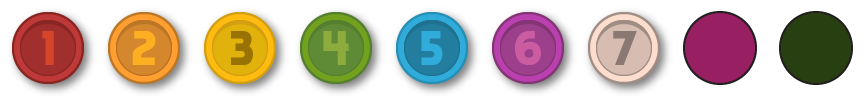
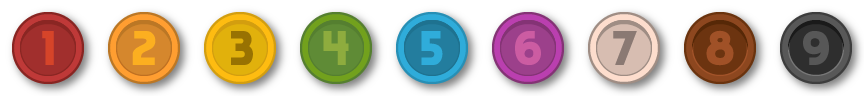
modified:   check_matching.py 	modified:   consts.py 	modified:   game_assets.py 	modified:   gem_select.py 	modified:   gfx/gems.png 	modified:   main.py

Changed region(s): [[0.7812, 0.0938, 1.0, 0.9688]]

diff --git a/game_assets.py b/game_assets.py
@@ -31,6 +31,7 @@ class Gem(Sprite):
         self._direction: vec = vec()
         self._velocity: vec = self._direction * self._speed
         self._end_moving: bool = True
+        self._ready = True
         self._dist: int = 0
         self._is_falling: bool = False
         self._state: str = 'idle'
@@ -62,6 +63,10 @@ class Gem(Sprite):
     @property
     def end_moving(self) -> bool:
         return self._end_moving
+    
+    @property
+    def ready(self) -> bool:
+        return self._ready
 
     def change_pos(self):
         self._direction = vec.normalize(self._new_bpos.pos - self._bpos.pos)
@@ -89,6 +94,7 @@ class Gem(Sprite):
         self._new_bpos.pos = self._bpos.pos + vec(0, dist)
         self._board_manager.match_gems.add_to_matching(self)
         self._is_falling = True
+        self._ready = False
         self.change_pos()
         self._state = 'fall'
 
@@ -120,9 +126,9 @@ class Gem(Sprite):
         self._bpos.pos = self._new_bpos.pos.copy()
         self._end_moving = True
         self._board_manager.board.gems[int(self._bpos.pos.x)][int(self._bpos.pos.y)] = self
+        self._ready  = True
         self._is_falling = False
         self.reset_state()
-
 
 class Create_Board():
     def __init__(self, board_manager,
@@ -180,6 +186,8 @@ class Board_Manager():
         self._match_gems: Match = Match(self)
         self._overs: list[Gem] = list()
         self._possibles: bool = False
+        self._gems_ready = False
+        self.debug_rect: list[Rect] = []
 
     @property
     def board(self) -> Create_Board:
@@ -204,11 +212,16 @@ class Board_Manager():
     @property
     def match_gems(self) -> Match:
         return self._match_gems
+    
+    @property
+    def gems_are_moving(self) -> bool:
+        return self._gems_are_moving
 
     def _detect_pointer_with_gem_collision(self, events, game_status):
-        if not self._check_moving_of_gems(self._match_gems.set_matching): return
 
-        gem = None
+        if not self._gems_ready: return
+
+        gem: Gem = None
         for _gem in self._gems_group:
             if _gem.rect.collidepoint(*(pygame.mouse.get_pos() - BOARD.OFFSET)):
                 gem = _gem
@@ -240,13 +253,25 @@ class Board_Manager():
                         self._swapdir_group.empty()
 
     def _check_moving_of_gems(self, gems: set[Gem]) -> bool:
-        if len(gems) == 0: return True
+        if len(gems) == 0: return False
         for gem in gems:
             if not gem.end_moving:
-                return False
-        return True
+                return True
+        return False
+    
+    def check_gems_ready(self) -> bool:
+        ret = True
+        for gem in self._gems_group:
+            if gem.ready == False:
+                self.debug_rect.append(gem.rect)
+                ret = False
+
+        return ret
     
     def update(self, events, dt, game_status):
+
+        self._gems_ready = self.check_gems_ready()
+
         self._detect_pointer_with_gem_collision(events, game_status)
 
         self._select_gem.select_group.update(dt)
@@ -261,7 +286,7 @@ class Board_Manager():
             self._swap_gems.swap(None)
 
         if self._swap_gems.swaping:
-            if self._check_moving_of_gems([self._swap_gems.gem1, self._swap_gems.gem2]):
+            if not self._check_moving_of_gems([self._swap_gems.gem1, self._swap_gems.gem2]):
                 self._match_gems.add_to_matching(self._swap_gems.gem1)
                 self._match_gems.add_to_matching(self._swap_gems.gem2)
                 if self._match_gems.match():
@@ -271,7 +296,7 @@ class Board_Manager():
                 self._swap_gems.clear_swap()
                 self._select_gem.clear()
 
-        if self._check_moving_of_gems(self._match_gems.set_matching):
+        if self.check_gems_ready():
             if len(self._match_gems.set_matching) > 0:
                 self._match_gems.match()
 

diff --git a/main.py b/main.py
@@ -57,13 +57,14 @@ class GameManager():
                         sys.exit()
                     if event.key == pygame.K_ESCAPE:
                         run = False
-                if self.game_status != 'game_over':
-                    if event.type == self.check_board and self.board_manager._check_moving_of_gems(self.board_manager.match_gems.set_matching):
-                        if not Check_Matching.check(self.board_manager.board.gems):
-                            self.game_status = 'game_over'
-                            Fade_In(self.fade_group, 2)
-                            Text_Sprite(self.text_group, vec(SCREEN.WIDTH//2, SCREEN.HEIGHT//2-32), TXT.NO_MORE_MOVES)
-                            Text_Sprite(self.text_group, vec(SCREEN.WIDTH//2, SCREEN.HEIGHT//2+32), TXT.PRESS_ANY_KEY, 24)
+                if event.type == self.check_board:        
+                    if self.game_status != 'game_over':
+                        if self.board_manager.check_gems_ready() and not self.board_manager._swap_gems.swaping:
+                            if not Check_Matching.check(self.board_manager.board.gems):
+                                self.game_status = 'game_over'
+                                Fade_In(self.fade_group, 2)
+                                Text_Sprite(self.text_group, vec(SCREEN.WIDTH//2, SCREEN.HEIGHT//2-32), TXT.NO_MORE_MOVES)
+                                Text_Sprite(self.text_group, vec(SCREEN.WIDTH//2, SCREEN.HEIGHT//2+32), TXT.PRESS_ANY_KEY, 24)
 
                     
             self.paint_screen()

diff --git a/check_matching.py b/check_matching.py
@@ -1,4 +1,5 @@
 from consts import GAME
+from game_assets import Gem
 
 mask = [
     [[0, 1, 0],
@@ -61,7 +62,8 @@ mask = [
 
 class Check_Matching():
     @classmethod
-    def check(cls, board) -> bool:
+    def check(cls, board: list[Gem]) -> bool:
+        import sys
         for x in range(int(GAME.BOARD_SIZE.x)):
             for y in range(int(GAME.BOARD_SIZE.y)):
                 for m in mask:

diff --git a/gem_select.py b/gem_select.py
@@ -5,9 +5,10 @@ from sprites import Animation
 
 class Select_Gem():
     def __init__(self):
+        from game_assets import Gem
         self._select_group: GroupSingle = GroupSingle()
-        self._selected_gem1 = None
-        self._selected_gem2 = None
+        self._selected_gem1: Gem = None
+        self._selected_gem2: Gem = None
         self._ready_to_swap: bool =  False
 
     @property

diff --git a/consts.py b/consts.py
@@ -71,7 +71,7 @@ BOARD.OFFSET = vec(SCREEN.LEFT, SCREEN.TOP)
 
 GAME = Game_Props()
 GAME.BOARD_SIZE = vec(8, 8)
-GAME.NUMBER_OF_GEMS = 7
+GAME.NUMBER_OF_GEMS = 9
 
 GEMS = Properities()
 GEMS.IMAGE = pygame.image.load('gfx/gems.png')
